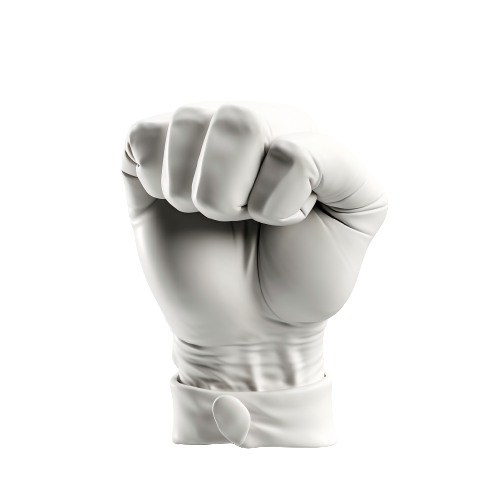
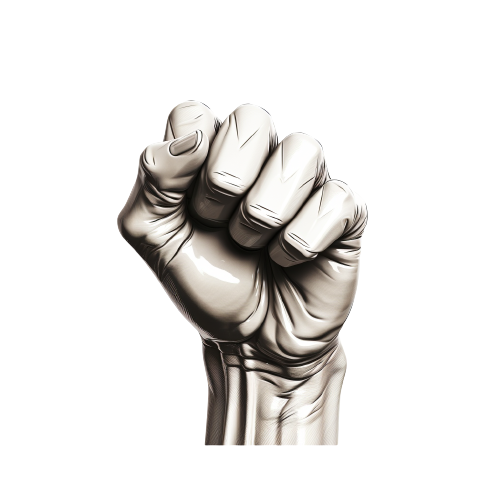
Replace rock.png, add more text

Changed region(s): [[0.21, 0.18, 0.78, 0.9]]

diff --git a/src/components/Game.tsx b/src/components/Game.tsx
@@ -136,6 +136,7 @@ const Game: React.FC = () => {
       <ConnectedPlayers playerName={playerName} players={connectedPlayers} />
       <GameWrapper>
         <RoundHistory>
+        <span>Round History</span>
           {rounds.map((round, index) => (
             <RoundResult key={index}>
               <img
@@ -157,9 +158,11 @@ const Game: React.FC = () => {
           ))}
         </RoundHistory>
         <MainBox>
+          <span>
           {roundState === "start" && "Let's Start"}
           {roundState === "waiting" && "Waiting for Opponent"}
           {roundState === "complete" && "Round Complete"}
+          </span>
           <ChoicesContainer>
             <ChoiceImage
               src="/rock.png"
